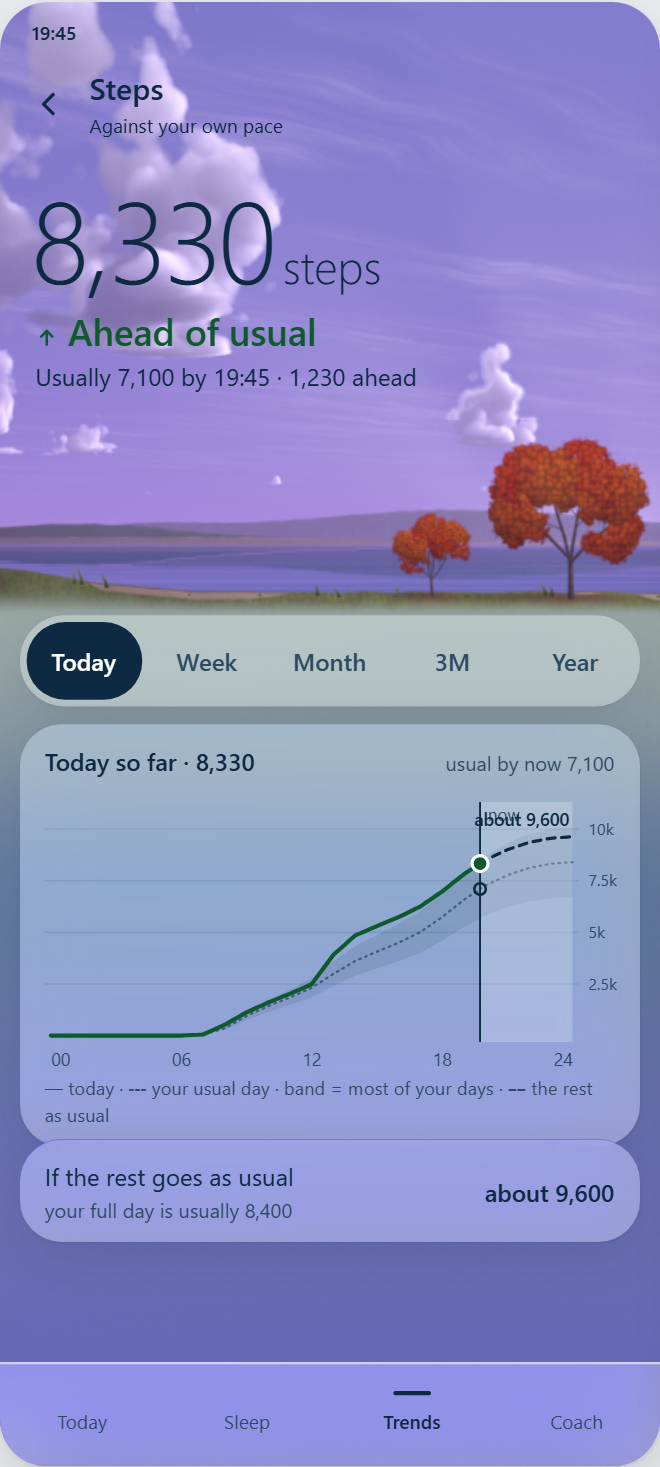
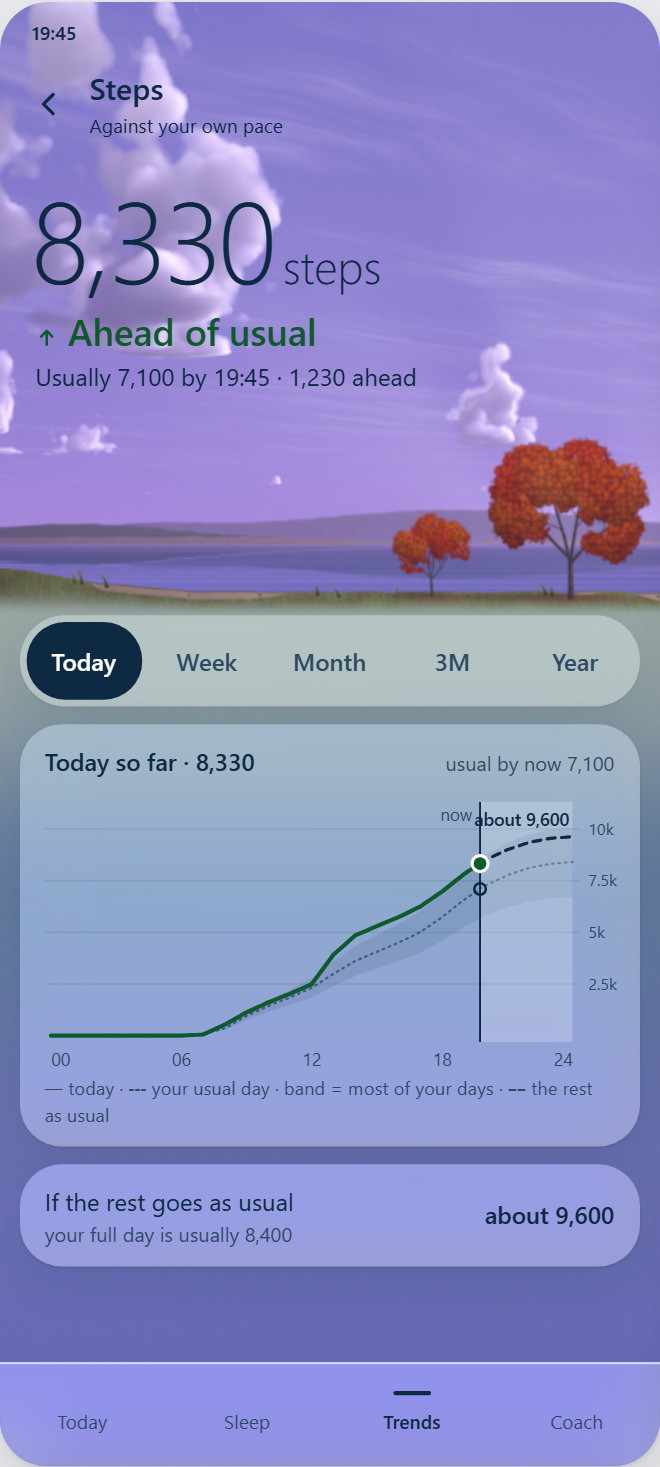
feat(design): phone check of the new screens, 12 px card gaps (round PH1)
- ?solo=N shows one board phone fitted to the device; ph1.js opens each
  view in Chrome on the Galaxy S21 over adb and screenshots it.
- Metric pages: cards under the range control stack at 12 px (Steps and
  Blood oxygen overlapped by 3 and 9 px; others ran 7-23 px).
- Steps after 17:00: "now" left of its line, clear of the pace label.
- Re-shot the affected dawn, dusk and night images.

Changed region(s): [[0.0303, 0.7669, 0.9697, 0.8896]]

diff --git a/design-prototype/md4-board.html b/design-prototype/md4-board.html
@@ -268,7 +268,7 @@ function stepsToday(w, h) { const top = 11000, X = t => 4 + (w - 8) * t / 24, Y 
   let s = `<path d="${path(hi)}L${lo.slice().reverse().map(([x, y]) => `${x.toFixed(1)} ${y.toFixed(1)}`).join('L')}Z" fill="${rgba(P.primary, .10)}"/>`;
   s += [2500, 5000, 7500, 10000].map(v => `<line x1="0" x2="${w}" y1="${Y(v)}" y2="${Y(v)}" stroke="${rgba(P.primary, .10)}"/><text x="${w + 6}" y="${Y(v) + 3.5}" font-size="10" fill="${P.secondary}">${v / 1000}k</text>`).join('');
   s += `<path d="${path(usual)}" fill="none" stroke="${P.primary}" stroke-opacity=".55" stroke-width="1.4" stroke-dasharray="1 3" stroke-linecap="round"/>`;
-  s += `<rect x="${X(NOW)}" y="0" width="${X(24) - X(NOW)}" height="${h}" fill="${rgba(NIGHT ? '#000000' : '#FFFFFF', NIGHT ? .18 : .22)}"/><line x1="${X(NOW)}" x2="${X(NOW)}" y1="0" y2="${h}" stroke="${P.primary}" stroke-width="1.2"/><text x="${X(NOW) + 5}" y="12" font-size="10.5" fill="${P.secondary}">now</text>`;
+  s += `<rect x="${X(NOW)}" y="0" width="${X(24) - X(NOW)}" height="${h}" fill="${rgba(NIGHT ? '#000000' : '#FFFFFF', NIGHT ? .18 : .22)}"/><line x1="${X(NOW)}" x2="${X(NOW)}" y1="0" y2="${h}" stroke="${P.primary}" stroke-width="1.2"/><text x="${X(NOW) + (NOW > 17 ? -5 : 5)}" y="12" font-size="10.5" fill="${P.secondary}" text-anchor="${NOW > 17 ? 'end' : 'start'}">now</text>`;   // PH1: late in the day "now" sits left of its line, clear of the "about" label
   s += `<path d="${path(ahead)}" fill="none" stroke="${P.primary}" stroke-width="2" stroke-dasharray="5 4" stroke-linecap="round"/><path d="${path(today)}" fill="none" stroke="${GOOD}" stroke-width="2.6" stroke-linejoin="round" stroke-linecap="round"/>`;
   s += `<circle cx="${X(NOW)}" cy="${Y(SO_FAR)}" r="5" fill="${GOOD}" stroke="${NIGHT ? '#152256' : '#fff'}" stroke-width="2"/><circle cx="${X(NOW)}" cy="${Y(BY_NOW)}" r="3.6" fill="none" stroke="${P.primary}" stroke-width="1.6"/>`;
   if (NOW < 21) s += `<text x="${X(24) - 2}" y="${Y(PACE) - 7}" font-size="11" font-weight="500" fill="${P.primary}" text-anchor="end">about ${k(PACE)}</text>`;
@@ -320,6 +320,7 @@ sec.innerHTML = `<div class="sheet"><h2>A · The last metrics</h2><div class="th
   <div class="phones">${[[dailyPage(), 'Daily score: how today’s is made'], [recoveryPage(), 'Recovery: two parts, and why it differs from Readiness'], [sleepPage(), 'Sleep score: five parts, last night'], [stepsPageToday(), 'Steps, Today: against your usual pace'], [stepsPageMonth(), 'Steps, Month: full days, today so far'], [spo2Page(), 'Blood oxygen, 3M: the one low night picked']].map(([h, c]) => `<figure>${h}<figcaption>${c}</figcaption></figure>`).join('')}</div>`;
 document.getElementById('board').appendChild(sec);
 console.log('MD4', JSON.stringify({ daily: T0.dailyScore, rec: T0.recovery, sleep: T0.sleepScore, hrv: T0.hrv, rhr: T0.rhr, strain: T0.strain, readiness: T0.readiness, SO_FAR, BY_NOW, PACE, USUAL }));
+stackCards(); addEventListener('load', () => stackCards());
 </script>
 </body>
 </html>

diff --git a/design-prototype/night.js b/design-prototype/night.js
@@ -21,3 +21,15 @@ window.SKY_RIGHT = r => window.NIGHT ? 150 : r;   // right inset for sky text: 4
 window.glassFx = g => g.mode === 'dark' ? '-webkit-backdrop-filter:blur(22px) saturate(1);backdrop-filter:blur(22px) saturate(1);box-shadow:inset 0 0 0 1px rgba(255,255,255,.10), inset 0 1px 0 rgba(255,255,255,.08), 0 10px 28px rgba(0,0,0,.12)'
   : '-webkit-backdrop-filter:blur(22px) saturate(1.6);backdrop-filter:blur(22px) saturate(1.6);box-shadow:0 1px 1px rgba(14,42,67,.05), 0 10px 28px rgba(14,42,67,.10)';
 window.navEdge = g => g.mode === 'dark' ? 'rgba(255,255,255,.14)' : 'rgba(255,255,255,.6)';
+// Phone check (PH1): ?solo=N shows only the Nth phone of a board, scaled to the device's width, for a real-screen look.
+(() => { const m = location.search.match(/[?&]solo=(\d+)/); if (!m) return;
+  const go = () => { const ph = document.querySelectorAll('.phone')[+m[1]]; if (!ph) return setTimeout(go, 150);
+    const c = ph.cloneNode(true); document.body.innerHTML = ''; document.body.style.cssText = 'margin:0;padding:0;background:#000;height:300vh';   // tall, so a swipe hides Chrome's address bar
+    const fit = () => { const z = Math.min(innerWidth / 412, innerHeight / 915); c.style.cssText += `;position:fixed;top:0;left:${(innerWidth - 412 * z) / 2 / z}px;zoom:${z};border-radius:0;box-shadow:none`; };
+    document.body.appendChild(c); fit(); addEventListener('resize', fit); document.title = 'solo ready'; };
+  addEventListener('load', () => setTimeout(go, 500)); })();
+// Metric pages (MD1-MD4): the cards under the range control stack at the standard 12 px gap (Samsung proportions, 3.16),
+// whatever their content's height; a stand-in for the app's Column(spacedBy(12.dp)).
+window.stackCards = (from = 440, gap = 12) => document.querySelectorAll('.phone').forEach(ph => {
+  const cs = [...ph.querySelectorAll(':scope > .glass')].filter(g => g.offsetTop >= from).sort((a, b) => a.offsetTop - b.offsetTop);
+  cs.forEach((g, i) => { if (i) g.style.top = cs[i - 1].offsetTop + cs[i - 1].offsetHeight + gap + 'px'; }); });

diff --git a/tools/visual-loop/ph1.js b/tools/visual-loop/ph1.js
@@ -1,0 +1,18 @@
+// Round PH1: the new screens on the Galaxy S21 (Chrome over adb), one per view with ?solo=N, into out/ph1-<name>.png.
+// Needs: adb reverse tcp:8765 tcp:8765; design-board on :8765; phone unlocked.   node ph1.js [name-filter]
+const { execSync } = require('child_process'); const path = require('path'), fs = require('fs');
+const SHOTS = [
+  ['coach-0715', 'co2-board.html', 0, ''], ['coach-1945', 'co2-board.html', 2, ''], ['coach-2310', 'co2-board.html', 3, ''],
+  ['settings-day', 'se1-board.html', 0, ''], ['settings-dusk', 'se1-board.html', 0, 't=dusk'], ['settings-night', 'se1-board.html', 0, 't=night'],
+  ['weight-day', 'wt1-board.html', 2, ''], ['weight-dawn', 'wt1-board.html', 2, 't=dawn'],
+  ['readiness-day', 'md3-board.html', 0, ''], ['steps-day', 'md4-board.html', 3, ''], ['steps-dusk', 'md4-board.html', 3, 't=dusk'], ['spo2-night', 'md4-board.html', 5, 't=night'],
+];
+const sleep = ms => Atomics.wait(new Int32Array(new SharedArrayBuffer(4)), 0, 0, ms), f = process.argv[2] || '';
+execSync('adb shell input keyevent KEYCODE_WAKEUP');
+for (const [name, board, i, q] of SHOTS.filter(s => s[0].includes(f))) {
+  const url = `http://localhost:8765/${board}?solo=${i}${q ? '&' + q : ''}&v=${Date.now()}`;
+  execSync(`adb shell am start -a android.intent.action.VIEW -d "'${url}'" com.android.chrome`); sleep(6000);
+  execSync('adb shell input swipe 540 1700 540 1000 300'); sleep(1500);   // hides the address bar; the page refits
+  fs.writeFileSync(path.join(__dirname, 'out', `ph1-${name}.png`), execSync('adb exec-out screencap -p', { maxBuffer: 64 << 20 }));
+  console.log(name);
+}

diff --git a/design-prototype/md3-board.html b/design-prototype/md3-board.html
@@ -249,6 +249,7 @@ sec.innerHTML = `<div class="sheet"><h2>A · Three more metrics</h2><div class="
   <div class="phones">${[[readinessPage(), 'Readiness: how today’s score is made'], [weightPage(29), 'Weight: today’s entry, Edit · Delete'], [weightPage(26), 'Weight: a day without an entry, Log'], [skinPage(), 'Skin temperature: the difference, night by night']].map(([h, c]) => `<figure>${h}<figcaption>${c}</figcaption></figure>`).join('')}</div>`;
 document.getElementById('board').appendChild(sec);
 
+stackCards(); addEventListener('load', () => stackCards());
 </script>
 </body>
 </html>

diff --git a/design-prototype/md2-board.html b/design-prototype/md2-board.html
@@ -199,6 +199,7 @@ el.innerHTML = `<div class="sheet"><h2>A · Chart in a card, five ranges</h2><di
   <div class="phones">${Object.keys(RANGES).map(r => `<figure>${pageA5(r)}<figcaption>${r}</figcaption></figure>`).join('')}</div>`;
 document.getElementById('board').appendChild(el);
 
+stackCards(); addEventListener('load', () => stackCards());
 </script>
 </body>
 </html>

diff --git a/docs/design-exploration/LOG.md b/docs/design-exploration/LOG.md
@@ -1129,3 +1129,23 @@ STOP: waiting for review of the mapping (thresholds, the look of each day) and t
 **Board:** `co2-board.html`. STOP.
 
 **Approved (2026-11-23):** Coach at dusk on 34% white glass, one strength for every screen at that hour.
+
+## PH1 · The new screens on the phone (2026-11-23)
+
+**Asked:** phone check (open since CO1: none of the new screens had been seen on the Galaxy S21).
+
+**How:** `night.js` takes `?solo=N`: only that board's Nth phone, fitted to the device (`min(width/412, height/915)`; Chrome's address bar stays, so the screen shows at about 85% of the size the app would have full screen). `tools/visual-loop/ph1.js` opens each view in Chrome over adb (`adb reverse tcp:8765`) and takes a device screenshot: Coach at 07:15 / 19:45 / 23:10, Settings day / dusk / night, Log weight day / dawn, Readiness, Steps day / dusk, Blood oxygen at night → `out/ph1-*.png`, sheet `out/ph1-sheet.png`.
+
+**Seen on the device:** the glass blur, the white frost by day, the lilac glass at dusk and the land-hued glass at night render as on the PC; text over the sky and on the glass reads at every hour; the white buttons at dusk and night hold against the sky. The scene here is the saved render (static), not the live renderer, so this says nothing new about frame cost.
+
+**Fixed:** Steps at dusk: "now" sat under "about 9,600" at the top of the chart; after 17:00 "now" goes left of its line (day shot unchanged).
+
+**Found for lock:** chart legends and card footnotes are 11–11.5 px on a 412 px mock, about 10 dp on the S21 and below 9 dp in this check; they read, but only just. At lock, no text under 12 sp.
+
+**Note:** each view opened a new Chrome tab on the phone (13 tabs).
+
+**Board:** `out/ph1-sheet.png`. STOP.
+
+**Approved (2026-11-23):** the phone check as done; at lock, no text under 12 sp.
+
+**Gaps (2026-11-23, after the phone check):** the last card on Steps sat 3 px *under* the chart card and on Blood oxygen 9 px under it; the other metric pages ran 7–23 px apart. The cards under the range control now stack at the standard 12 px on every metric page (`stackCards()` in `night.js`, MD2–MD4 boards, the app's Column spacedBy 12 dp); all end above the nav (lowest 835). Re-shot: MD2–MD4, `nt1/metric-*.png`, `dd1/*-{metric-month,readiness,steps,spo2}.png`, phone Steps and Blood oxygen.
